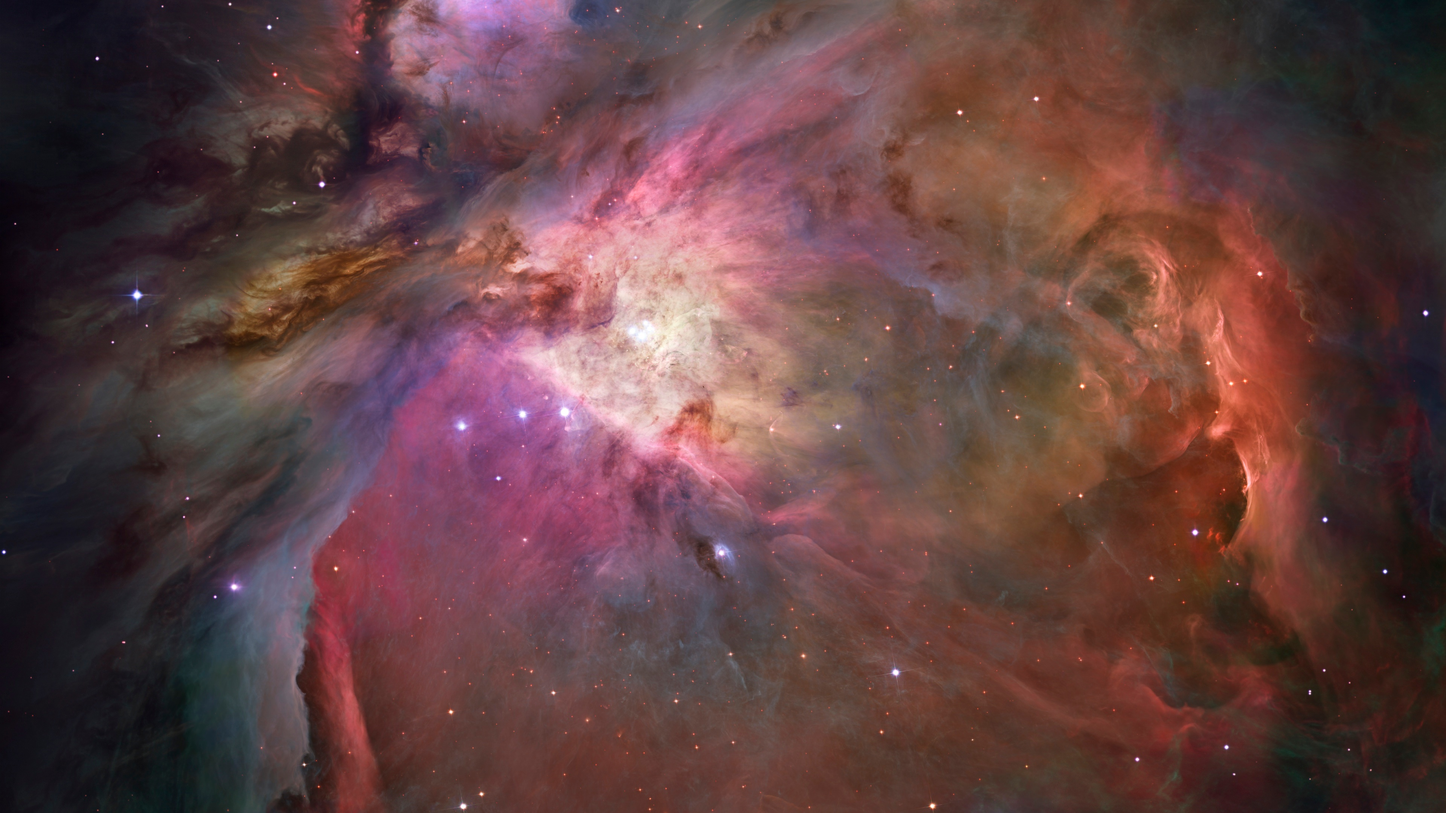
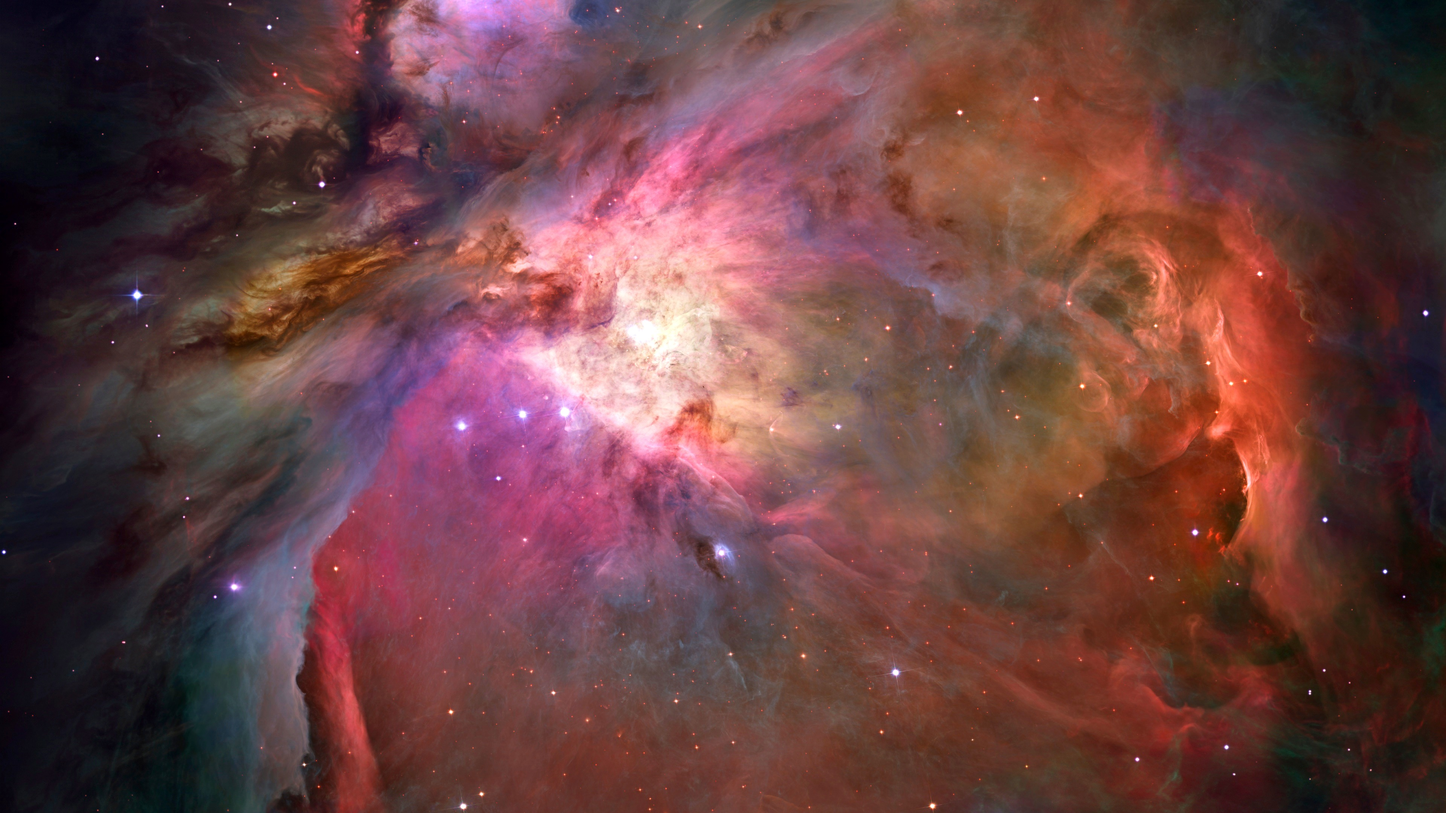
Performance overhaul: throttle stream rendering with rAF, debounce localStorage writes, memoize ChatMessage and CodeBlock, pre-bake 4K wallpaper contrast, and split vendor chunks

diff --git a/src/hooks/useChat.ts b/src/hooks/useChat.ts
@@ -199,6 +199,22 @@ export function useChat() {
 
       try {
         let accumulatedText = "";
+        let rafId: number | null = null;
+
+        const flushStreamUpdate = () => {
+          rafId = null;
+          setSessions((prev) =>
+            prev.map((s) => {
+              if (s.id !== currentSessionId) return s;
+              const msgs = s.messages.map((m) =>
+                m.id === assistantMsgId
+                  ? { ...m, content: accumulatedText, isStreaming: true }
+                  : m
+              );
+              return { ...s, messages: msgs, updatedAt: Date.now() };
+            })
+          );
+        };
 
         await streamChatCompletion({
           backendUrl: settings.backendUrl,
@@ -209,26 +225,23 @@ export function useChat() {
           signal: abortController.signal,
           onChunk: (chunk: string) => {
             accumulatedText += chunk;
-            setSessions((prev) =>
-              prev.map((s) => {
-                if (s.id !== currentSessionId) return s;
-                const msgs = s.messages.map((m) =>
-                  m.id === assistantMsgId
-                    ? { ...m, content: accumulatedText, isStreaming: true }
-                    : m
-                );
-                return { ...s, messages: msgs, updatedAt: Date.now() };
-              })
-            );
+            if (rafId === null) {
+              rafId = requestAnimationFrame(flushStreamUpdate);
+            }
           },
         });
 
-        // Mark streaming finished
+        if (rafId !== null) {
+          cancelAnimationFrame(rafId);
+          rafId = null;
+        }
+
+        // Mark streaming finished and commit final text
         setSessions((prev) =>
           prev.map((s) => {
             if (s.id !== currentSessionId) return s;
             const msgs = s.messages.map((m) =>
-              m.id === assistantMsgId ? { ...m, isStreaming: false } : m
+              m.id === assistantMsgId ? { ...m, content: accumulatedText, isStreaming: false } : m
             );
             return { ...s, messages: msgs, updatedAt: Date.now() };
           })

diff --git a/src/hooks/useLocalStorage.ts b/src/hooks/useLocalStorage.ts
@@ -1,4 +1,4 @@
-import { useState, useEffect } from "react";
+import { useState, useEffect, useRef } from "react";
 
 export function useLocalStorage<T>(
   key: string,
@@ -21,12 +21,52 @@ export function useLocalStorage<T>(
     }
   });
 
+  const timeoutRef = useRef<any>(null);
+  const latestValueRef = useRef<T>(storedValue);
+  latestValueRef.current = storedValue;
+
+  // Flush to localStorage immediately on unmount or tab close
   useEffect(() => {
-    try {
-      window.localStorage.setItem(key, JSON.stringify(storedValue));
-    } catch (error) {
-      console.warn(`Error writing to localStorage key "${key}":`, error);
+    const handleBeforeUnload = () => {
+      try {
+        window.localStorage.setItem(key, JSON.stringify(latestValueRef.current));
+      } catch {
+        // Silent fallback
+      }
+    };
+    window.addEventListener("beforeunload", handleBeforeUnload);
+    return () => {
+      window.removeEventListener("beforeunload", handleBeforeUnload);
+      if (timeoutRef.current) {
+        clearTimeout(timeoutRef.current);
+      }
+      try {
+        window.localStorage.setItem(key, JSON.stringify(latestValueRef.current));
+      } catch {
+        // Silent fallback
+      }
+    };
+  }, [key]);
+
+  // Debounced write: Batches disk I/O so streaming 50 tokens/sec never freezes the main thread
+  useEffect(() => {
+    if (timeoutRef.current) {
+      clearTimeout(timeoutRef.current);
     }
+
+    timeoutRef.current = setTimeout(() => {
+      try {
+        window.localStorage.setItem(key, JSON.stringify(storedValue));
+      } catch (error) {
+        console.warn(`Error writing to localStorage key "${key}":`, error);
+      }
+    }, 250);
+
+    return () => {
+      if (timeoutRef.current) {
+        clearTimeout(timeoutRef.current);
+      }
+    };
   }, [key, storedValue]);
 
   return [storedValue, setStoredValue];

diff --git a/src/components/ChatMessage.tsx b/src/components/ChatMessage.tsx
@@ -14,7 +14,7 @@ interface ChatMessageProps {
   onRetry?: () => void;
 }
 
-export const ChatMessage: React.FC<ChatMessageProps> = ({ message, theme, index = 0 }) => {
+const ChatMessageComponent: React.FC<ChatMessageProps> = ({ message, theme, index = 0 }) => {
   const isUser = message.role === "user";
   const [copied, setCopied] = useState(false);
 
@@ -40,6 +40,7 @@ export const ChatMessage: React.FC<ChatMessageProps> = ({ message, theme, index 
       className={`group relative flex w-full my-2 transition-all ${
         isUser ? "justify-end" : "justify-start"
       }`}
+      style={{ contentVisibility: "auto", containIntrinsicSize: "0 80px" }}
     >
       <div
         className={`relative flex items-start gap-3.5 transition-all duration-300 ${
@@ -190,3 +191,17 @@ export const ChatMessage: React.FC<ChatMessageProps> = ({ message, theme, index 
     </div>
   );
 };
+
+export const ChatMessage = React.memo<ChatMessageProps>(
+  ChatMessageComponent,
+  (prev, next) => {
+    return (
+      prev.message.id === next.message.id &&
+      prev.message.content === next.message.content &&
+      prev.message.isStreaming === next.message.isStreaming &&
+      prev.message.error === next.message.error &&
+      prev.theme.id === next.theme.id &&
+      prev.index === next.index
+    );
+  }
+);

diff --git a/src/components/WallpaperBackground.tsx b/src/components/WallpaperBackground.tsx
@@ -17,18 +17,22 @@ export const WallpaperBackground: React.FC<WallpaperBackgroundProps> = ({
         <div className="hidden md:block fixed top-0 bottom-0 left-0 w-72 lg:w-80 -z-30 bg-slate-950 border-r border-slate-800" />
       )}
 
-      {/* 4K Hubble Orion Nebula Optical Canvas */}
+      {/* 4K Hubble Orion Nebula Optical Canvas - GPU Accelerated & Pre-baked */}
       <div
-        className={`pointer-events-none fixed top-0 bottom-0 right-0 -z-20 overflow-hidden bg-black select-none transition-all duration-300 ease-in-out ${
+        className={`pointer-events-none fixed top-0 bottom-0 right-0 -z-20 overflow-hidden bg-black select-none transform-gpu transition-all duration-300 ease-in-out ${
           adaptiveFraming && isSidebarOpen
             ? "left-0 md:left-72 lg:left-80"
             : "left-0"
         }`}
+        style={{ willChange: "left" }}
       >
         <img
           src={bgCenter}
           alt="Orion Nebula 4K Hubble Mosaic"
-          className="w-full h-full object-cover object-center brightness-105 contrast-[1.08] saturate-[1.12]"
+          className="w-full h-full object-cover object-center transform-gpu"
+          decoding="async"
+          // @ts-ignore
+          fetchpriority="high"
         />
       </div>
     </>

diff --git a/src/components/ChatInterface.tsx b/src/components/ChatInterface.tsx
@@ -39,10 +39,11 @@ export const ChatInterface: React.FC<ChatInterfaceProps> = ({
   const [showScrollBottom, setShowScrollBottom] = useState(false);
   const userScrolledUpRef = useRef(false);
 
-  // Auto-scroll handler
+  // Instant zero-overhead auto-scroll handler
   useEffect(() => {
-    if (!userScrolledUpRef.current) {
-      bottomAnchorRef.current?.scrollIntoView({ behavior: isStreaming ? "auto" : "smooth" });
+    if (!userScrolledUpRef.current && scrollContainerRef.current) {
+      const container = scrollContainerRef.current;
+      container.scrollTop = container.scrollHeight;
     }
   }, [messages, isStreaming]);
 

diff --git a/src/components/CodeBlock.tsx b/src/components/CodeBlock.tsx
@@ -18,7 +18,7 @@ interface CodeBlockProps {
   code: string;
 }
 
-export const CodeBlock: React.FC<CodeBlockProps> = ({ language, code }) => {
+const CodeBlockComponent: React.FC<CodeBlockProps> = ({ language, code }) => {
   const [copied, setCopied] = useState(false);
 
   const cleanLang = (language || "text").toLowerCase().replace(/^language-/, "");
@@ -91,3 +91,8 @@ export const CodeBlock: React.FC<CodeBlockProps> = ({ language, code }) => {
     </div>
   );
 };
+
+export const CodeBlock = React.memo<CodeBlockProps>(
+  CodeBlockComponent,
+  (prev, next) => prev.code === next.code && prev.language === next.language
+);

diff --git a/vite.config.ts b/vite.config.ts
@@ -23,5 +23,16 @@ export default defineConfig({
     outDir: "dist",
     assetsDir: "assets",
     sourcemap: false,
+    chunkSizeWarningLimit: 1000,
+    rollupOptions: {
+      output: {
+        manualChunks: {
+          vendor: ["react", "react-dom"],
+          markdown: ["react-markdown", "remark-gfm"],
+          prism: ["prismjs"],
+          icons: ["lucide-react"],
+        },
+      },
+    },
   },
 });
